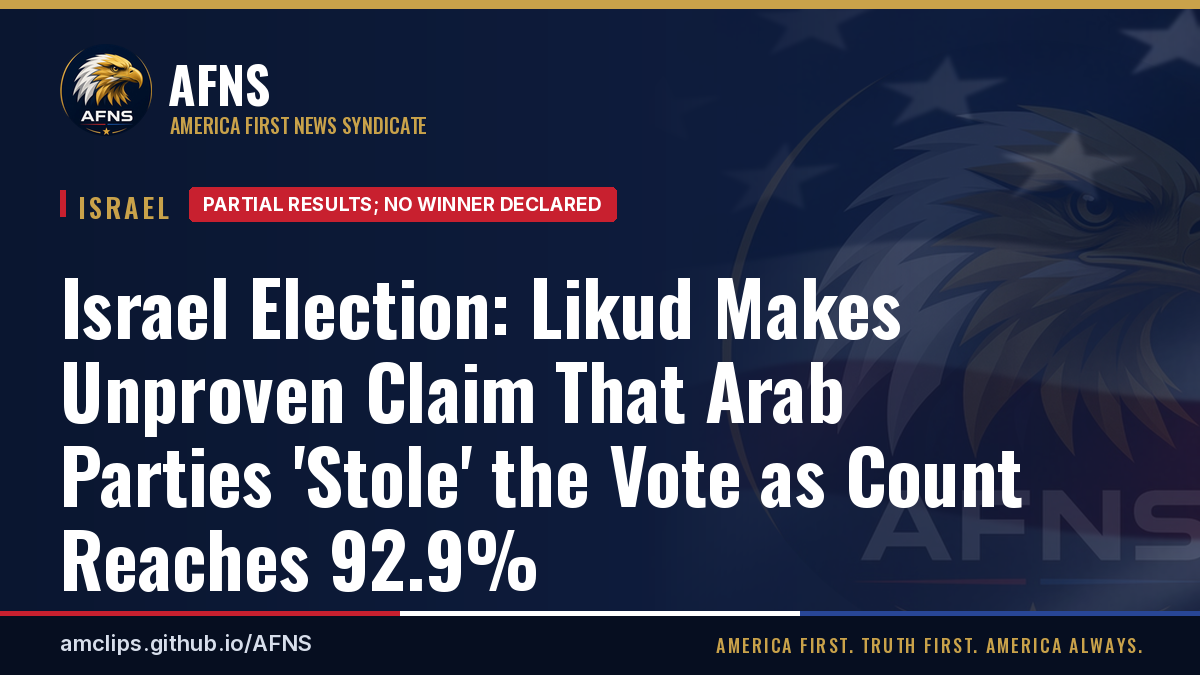
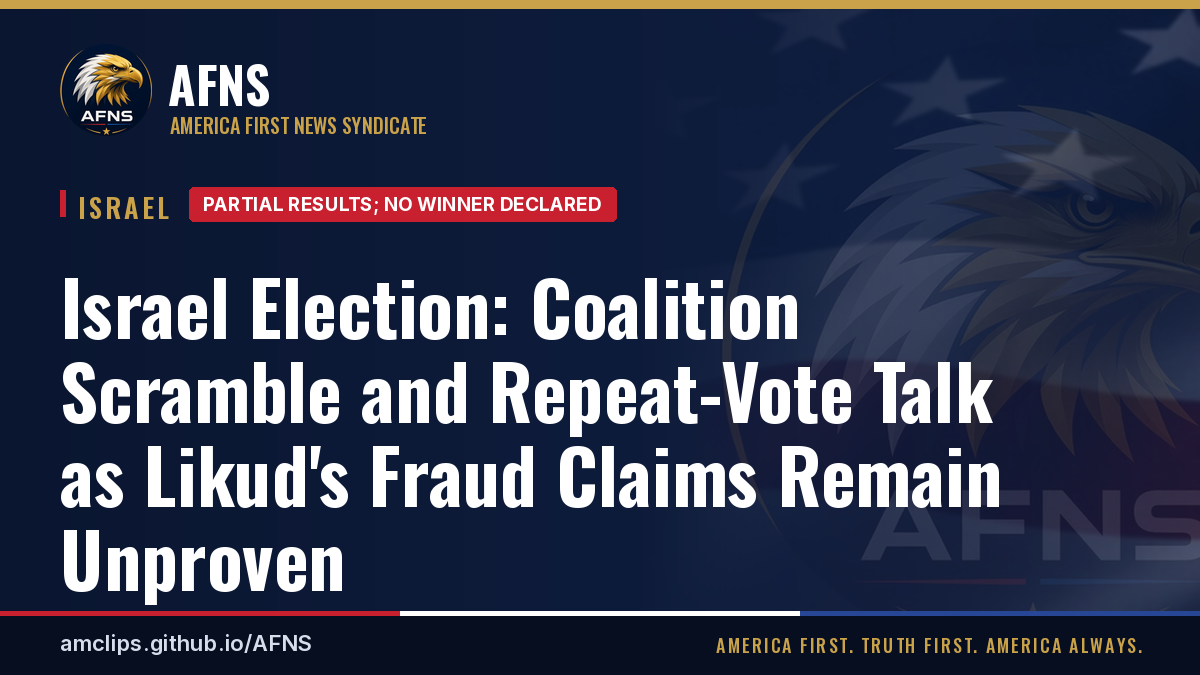
Update the Israel election story for the 1 PM count. (#10)
The story now covers the coalition scramble and repeat-vote talk. The morning briefing and share card match the new headline.

Changed region(s): [[0.0308, 0.4044, 0.8633, 0.9022]]

diff --git a/content/israel/israel-election-no-clear-winner-netanyahu-eisenkot-claim-victory.md b/content/israel/israel-election-no-clear-winner-netanyahu-eisenkot-claim-victory.md
@@ -1,8 +1,8 @@
 ---
-title: "Israel Election: Likud Makes Unproven Claim That Arab Parties 'Stole' the Vote as Count Reaches 92.9%"
+title: "Israel Election: Coalition Scramble and Repeat-Vote Talk as Likud's Fraud Claims Remain Unproven"
 desk: israel
 date: 2026-10-28
-summary: "Netanyahu's Likud claims, without proof so far, that Arab parties \"stole\" the election, and it has asked police and the Shin Bet to investigate. A Central Elections Committee official dismissed fraud claims. With 92.9% of ballot boxes counted, the seats are unchanged: Netanyahu bloc 53, Eisenkot bloc 48, Arab parties a record 19. About 430,000-480,000 double-envelope ballots remain."
+summary: "With 92.9% of ballot boxes counted, the seats are unchanged: Netanyahu bloc 53, Eisenkot bloc 48, Arab parties a record 19. Ynet reports that Likud is reaching out to Bennett and Liberman, and Haaretz analysts say another election looks likely. The elections committee says it is reviewing Likud's fraud claims against Arab parties, which remain unproven. About 430,000-480,000 double-envelope ballots remain."
 image: "img/stories/israel-election-no-clear-winner-netanyahu-eisenkot-claim-victory.jpg"
 image_alt: "Ballot slips for each party list laid out in a voting booth at an Israeli polling station, Oct. 27, 2026"
 image_credit: "Nizzan Cohen / Wikimedia Commons"
@@ -12,7 +12,9 @@ status: "Partial results; no winner declared"
 featured: true
 desk_lead: true
 key_points:
-  - UNPROVEN - Likud claims Arab parties "stole" the election and asks police and the Shin Bet to investigate. A Central Elections Committee official dismissed fraud claims on Channel 12
+  - Coalition scramble - ynet reports Likud is reaching out to Bennett and Liberman; Haaretz analysts say another election looks likely
+  - UNPROVEN - Likud claims Arab parties "stole" the election. The elections committee says it is reviewing all fraud claims but has not backed them, and Likud has shown no proof publicly
+  - Trump, in comments reported from an Axios interview, said Netanyahu is "in pretty good shape"
   - Status - partial results, 92.9% of ballot boxes counted (Central Elections Committee via the Times of Israel). Seats can still move
   - Netanyahu bloc 53, Eisenkot bloc 48, Arab parties a record 19; Likud 26, Yashar 21
   - The committee estimates 430,000-480,000 double-envelope ballots remain, worth roughly 12 seats. The full count is due Thursday afternoon Israel time, and official results Nov. 4
@@ -25,6 +27,12 @@ key_points:
 sources:
   - Times of Israel: CEC estimates up to 480,000 ballots left, worth some 12 seats | https://www.timesofisrael.com/liveblog_entry/cec-estimates-up-to-480000-ballots-from-troops-police-diplomats-yet-to-be-counted-worth-some-12-knesset-seats/
   - Times of Israel: earlier partial count (Central Elections Committee) | https://www.timesofisrael.com/liveblog_entry/with-over-85-of-votes-counted-pro-netanyahu-bloc-gets-53-seats-eisenkot-led-bloc-at-48-and-arab-parties-have-19/
+  - Times of Israel on X: elections committee reviewing fraud claims | https://x.com/TimesofIsrael/status/2115493850932510971
+  - Hindustan Times on X: Trump's Axios comments | https://x.com/htTweets/status/2115499654641324391
+  - Clash Report on X: Trump's Axios comments | https://x.com/clashreport/status/2115472710377631752
+  - Ynetnews on X: Likud outreach to Bennett and Liberman | https://x.com/ynetnews/status/2115488915775705478
+  - Haaretz on X: analysts on a repeat election | https://x.com/haaretzcom/status/2115495470906651119
+  - X trending summary: Netanyahu and MK Osama Saadi (unverified) | https://x.com/i/trending/2115491456840319485
   - Amit Segal on X: Likud fraud claims | https://x.com/AmitSegal/status/2115464750050013546
   - Times of Israel liveblog, Oct. 28: Likud claims, Katz, EU, Herzog, speakership, markets | https://www.timesofisrael.com/liveblog-october-28-2026/
   - X trending summary: Mansour Abbas interview (unconfirmed) | https://x.com/i/trending/2115430450852512197
@@ -47,9 +55,15 @@ sources:
   - Kan News on X: Sa'ar and Likud HQ | https://x.com/kann_news/status/2115185246060568781
 ---
 
-**Updated Oct. 28, 2026, 11 AM CT.** This article now uses the Central Elections Committee's partial results at 92.9% of ballot boxes counted, and its new estimate of the ballots still outstanding. They replace the earlier partial counts and the election-night early count. First published Oct. 27.
+**Updated Oct. 28, 2026, 1 PM CT.** The count is unchanged since 11 AM CT, at 92.9% of ballot boxes. This update adds the coalition outreach, talk of a repeat election, the elections committee's review of fraud claims, Trump's reported Axios comments and Netanyahu's clash with MK Osama Saadi. The figures below replace the earlier partial counts and the election-night early count. First published Oct. 27.
 
 **Status: Partial results; no winner declared.** Counting is not finished, so **seats can still move**. No camp has a majority.
+
+## Coalition scramble and talk of a repeat election
+
+- **Outreach:** ynet reports that senior Likud ministers are pushing for talks with Naftali Bennett and Avigdor Liberman, both former Netanyahu allies (via Ynetnews on X).
+- **Skipped calls:** ynet also reports that Netanyahu skipped his usual election-night calls to the leaders of his own bloc's parties.
+- **Repeat election:** Haaretz analysts now say another election looks likely (via Haaretz on X). President Herzog has urged the parties to avoid one (see below).
 
 ## Likud alleges fraud. The claims are unproven
 
@@ -59,6 +73,7 @@ Netanyahu's Likud party claims the Arab parties "stole" the election. It alleges
 
 - **The request:** Likud wants police and the Shin Bet to investigate.
 - **Its material:** it says it is handing over "hundreds of testimonies." They include claims of cash envelopes with Ra'am ballots, double voting, and mismatches in envelope counts.
+- **The committee's response:** the elections committee says it is reviewing all the fraud claims. It has not backed them, and Likud has still not shown proof publicly (Times of Israel on X).
 
 ## Where the count stands
 
@@ -103,6 +118,8 @@ Without Arab party support, the anti-Netanyahu bloc can't reach 61 on the curren
 - **Joint List chair Yousef Jabareen** said anyone who wants to replace Netanyahu "will have to talk to us." He said his party is "ready to pave the way" to oust Netanyahu (Times of Israel).
 - **Yair Golan** is urging a coalition with the Arab parties (Times of Israel).
 
+**Netanyahu vs. MK Osama Saadi.** In a victory speech, Joint List MK Osama Saadi dedicated the Arab parties' gains to Palestinians in Gaza, the West Bank and Jerusalem, and called the government fascist. **UNVERIFIED (based on an X trending summary):** according to the summary, Netanyahu accused Saadi of praising terrorists and warned against any coalition relying on Arab parties. AFNS has not found Netanyahu's own words.
+
 **UNCONFIRMED (based on an X trending summary; not independently confirmed):** according to the summary, Ra'am leader Mansour Abbas would not call Hamas terrorists in a live interview. It says he accepted the first three of Eisenkot's coalition conditions but refused the fourth, labeling Hamas a terrorist group, while saying he condemns October 7. AFNS has not reviewed the interview.
 
 ## The opposition moves on the Knesset speakership
@@ -125,6 +142,7 @@ AFP reported that both leaders vowed to form the next government.
 
 - **On Truth Social,** President Trump shared a quote saying "the whole tide turned" after he endorsed Netanyahu (Times of Israel).
 - **To reporters,** Trump said the endorsement "helped him a lot" and that the result looks like "a stalemate or a win." He said he has not spoken to Netanyahu yet (Times of Israel; Jerusalem Post).
+- **To Axios:** according to reports quoting an Axios interview, Trump said he first got "horror reports" about Netanyahu's chances, but "he's in pretty good shape now." He also said, "I heard my endorsement made a big difference for Bibi." He was asked whether he would get involved in forming a unity government (via Hindustan Times and Clash Report on X; AFNS has not reviewed the Axios piece itself). Trump did not say where he heard about his endorsement's effect. On the current count, Netanyahu's bloc is eight seats short of a majority.
 - **Unconfirmed, based on anonymous sources:** ynet cites unnamed sources close to Trump who say he does not want Ben-Gvir, and probably not Smotrich, in the next government. AFNS has not confirmed this, and the White House has not said it publicly.
 
 ## Other reactions from election night

diff --git a/content/israel/israel-morning-briefing-2026-10-28.md b/content/israel/israel-morning-briefing-2026-10-28.md
@@ -2,7 +2,7 @@
 title: "Israel Morning Briefing: Wednesday, Oct. 28, 2026"
 desk: israel
 date: 2026-10-28
-summary: "Updated 9 AM CT: IDF says six Hamas operatives were killed in Gaza strikes, and a wildfire in Ben Shemen Forest closed Routes 1, 6 and 444. Also: a UN inquiry accuses Israel of war crimes, which Israel and the U.S. reject, plus Israeli shelling in south Lebanon, Gaza's fourth winter in tents, memorial demolitions near Nablus, Arab turnout and Ben-Gvir's latest remarks. For the election count, see the updated results article."
+summary: "Updated 1 PM CT: the IDF says it killed three Hamas commanders, and sea drones struck a Haifa-to-Romania container ship off Bulgaria. Earlier: IDF says six Hamas operatives were killed in Gaza strikes, and a wildfire in Ben Shemen Forest closed Routes 1, 6 and 444. Also: a UN inquiry accuses Israel of war crimes, which Israel and the U.S. reject, plus Israeli shelling in south Lebanon, Gaza's fourth winter in tents, memorial demolitions near Nablus, Arab turnout and Ben-Gvir's latest remarks. For the election count, see the updated results article."
 image: "img/stories/israel-morning-briefing-2026-10-28.jpg"
 image_alt: "The Palais des Nations, the United Nations Office at Geneva"
 image_credit: "Vassil / Wikimedia Commons"
@@ -10,6 +10,8 @@ image_source_url: "https://commons.wikimedia.org/wiki/File%3APalace_of_Nations_G
 image_license: "CC0"
 status: "Daily briefing"
 key_points:
+  - IDF (1 PM CT) - the IDF says it killed three Hamas commanders in Gaza
+  - Black Sea - container ship CONTSHIP JET, sailing from Haifa, was hit by sea drones off Bulgaria; all 18 crew rescued (X news summary)
   - Gaza strikes - the IDF says six Hamas operatives were killed, including Ahmed Baraka, whom it links to the abduction of Alex Dancyg
   - Wildfire - a large fire in Ben Shemen Forest closed Routes 1, 6 and 444 in central Israel
   - Election - counting continues, see the updated results article for the latest official figures
@@ -18,6 +20,8 @@ key_points:
   - Gaza - the UN says about 950,000 displaced people live in flood-risk sites as winter begins
   - West Bank, Arab turnout, Ben-Gvir - from X news summaries, not independently verified
 sources:
+  - IDF on X: three Hamas commanders | https://x.com/IDF/status/2115417255135641904
+  - X trending summary: CONTSHIP JET | https://x.com/i/trending/2115419415756128743
   - Times of Israel liveblog, Oct. 28: IDF strikes, wildfire | https://www.timesofisrael.com/liveblog-october-28-2026/
   - Hen Mazzig on X: IDF strikes | https://x.com/HenMazzig/status/2115445036691153352
   - X trending summary: UN Commission of Inquiry report | https://x.com/i/trending/2114743518409167155
@@ -30,6 +34,12 @@ sources:
 ---
 
 **Status: Daily briefing.** Each item names its source. Items marked **"Based on an X news summary; not independently verified"** come from X's trending summaries. AFNS has not confirmed them with a primary source.
+
+## Update, 1 PM CT
+
+**IDF says it killed three Hamas commanders (IDF statements).** The IDF says it killed three Hamas commanders in Gaza. It says one was a Nukhba commander who broke into the Sufa outpost, and another led a company that crossed into Israel on October 7. The IDF says they had been planning new attacks (IDF on X). AFNS has not independently verified the IDF's account.
+
+**Ship from Haifa hit off Bulgaria (based on an X news summary; not independently verified).** According to the summary, sea drones struck the Liberian-flagged container ship CONTSHIP JET in Bulgarian waters. It was sailing from Haifa to Constanta, Romania. All 18 crew were rescued. No attacker has been named, and the summary says the attack appears tied to the string of Black Sea ship attacks rather than to Israel itself.
 
 ## Update, 9 AM CT
 
